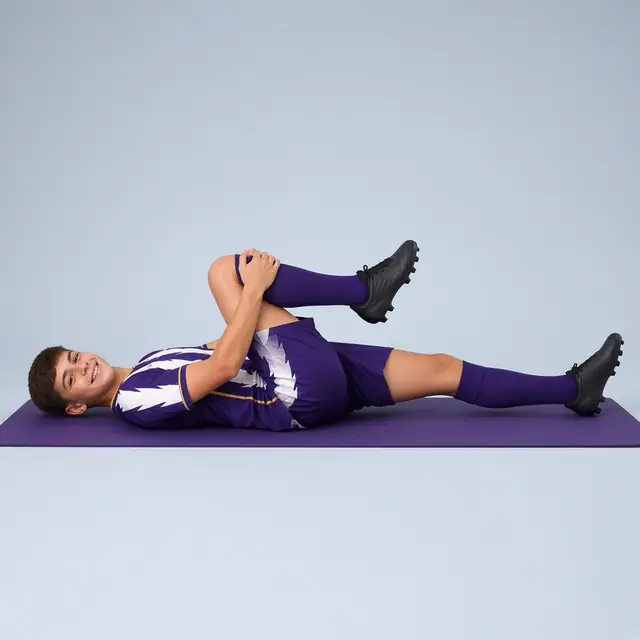
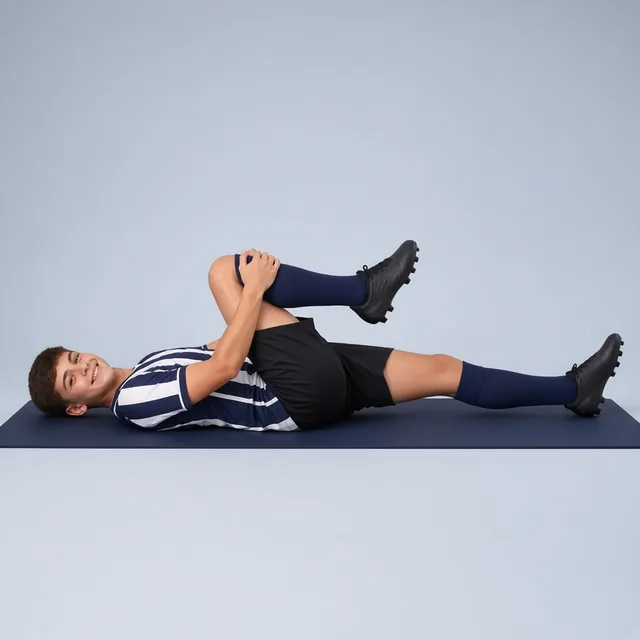
r92: stretch figures in dark blue home kit
Replace the purple-kit stretch photos with the same invented lad in
the real Wigan Junior Latics U15 Blues home kit (dark blue #021945
and white vertical stripes, black shorts). All 11 poses (full and
thumb) regenerated and cache-busted. Pre-game stretch and cool-down
links bump to 92. Nothing goes live until Tim says yes.

Changed region(s): [[0.0, 0.4062, 1.0, 0.7188], [0.0938, 0.5312, 0.1562, 0.5938], [0.3438, 0.4062, 0.375, 0.4375]]

diff --git a/family.html b/family.html
@@ -134,7 +134,7 @@ body.ps .vi,body.ps .intro,body.ps .ans,body.ps details.pl{background:#fff;color
 .tl-fit-chips,.tl-fit-tabs{flex-wrap:wrap}
 @media(min-width:720px){.tl-fitview{align-items:center}.tl-fit-sheet{border-radius:16px;max-height:86vh}}
 </style>
-<script src="cd.js?v=91"></script>
+<script src="cd.js?v=92"></script>
 </head>
 <body>
 <div id="splash"><div class="spw"><svg viewBox="0 0 240 240" id="sprays"></svg><img src="badge.png" alt=""></div><p>Welcome to <b>Wigan Junior Latics Blues U15</b> Touchline Hub</p><div class="spn"><span>Proudly sponsored by</span><img src="coach/mfs.png" alt="MFS Limited"></div></div>
@@ -499,7 +499,7 @@ function famShirtNum(){if(D&&D.role==='parent'&&CHD&&CHD.num)return String(CHD.n
 window.tlLateNum=function(){return famShirtNum();};
 window.tlLateSend=function(row){if(!row)return Promise.resolve();var act=row.op==='undo'?'f.late.undo':'f.late';return call(act,{id:row.id,num:row.num,mins:row.mins,kind:row.kind,ref:row.ref,date:row.date}).then(function(){alertMsg=row.op==='undo'?'Late notice cleared.':'Told the coaches: '+(window.TLCD?TLCD.lateLabel(row.num,row.mins):('No. '+row.num+' running late'));try{r();}catch(e){}}).catch(function(e){alertMsg=(e&&e.message)||'Saved on this phone. Will send when you are back online.';try{r();}catch(x){};});};
 window.addEventListener('online',function(){try{if(window.TLCD)TLCD.flushLate();}catch(e){}});
-function famMatchdayMaybe(){try{if(!window.TLCD||!D)return;var x=X(),td=today();var nx=(x.fixtures||[]).filter(function(m){return !m.done&&m.date===td&&!m.pp;})[0];if(!nx)return;if(D.role==='parent')loadChild();TLCD.showMatchday(nx,{role:D.role||'parent',anim:'12_352_in_transition',animHref:'coach/anim/12_352_in_transition.html?v=91',onGo:function(){try{goTab('home');}catch(e){}try{TLCD.pinToday(nx);}catch(e2){}},onCard:function(){try{goTab('home');}catch(e){}}});}catch(e){}}
+function famMatchdayMaybe(){try{if(!window.TLCD||!D)return;var x=X(),td=today();var nx=(x.fixtures||[]).filter(function(m){return !m.done&&m.date===td&&!m.pp;})[0];if(!nx)return;if(D.role==='parent')loadChild();TLCD.showMatchday(nx,{role:D.role||'parent',anim:'12_352_in_transition',animHref:'coach/anim/12_352_in_transition.html?v=92',onGo:function(){try{goTab('home');}catch(e){}try{TLCD.pinToday(nx);}catch(e2){}},onCard:function(){try{goTab('home');}catch(e){}}});}catch(e){}}
 
 function todayCard(){var x=X(),td=today();var pend=(D.posts||[]).filter(function(p){return p.date>=td&&!(D.mine||{})[p.id];}).sort(function(a,b){return a.date<b.date?-1:1;})[0];
  var nx=x.fixtures.filter(function(m){return !m.done&&m.date>=td&&!m.pp;})[0];var who=D.role==='player'?'you':esc(D.first);
@@ -625,7 +625,7 @@ function selfPrompt(){if(!D||D.role!=='player'||!SELF||SELF.done||SELF.role!=='p
 function selfLink(){if(!D||D.role!=='player'||!SELF||SELF.role!=='player')return '';var h='<div class="card"><h3>My profile</h3><p class="small muted">Nickname, foot, positions and your own scores. Only you and the coaches can see these.</p><button class="btn block" onclick="selfOpen()">'+(SELF.done?'Update my profile':'Make it yours')+'</button></div>';if(window.roleBtn)h=roleBtn({label:'My role'})+h;if(window.niggleCard)h=niggleCard()+h;return h;}
 var WK3P={0:["w1_shape_to_receive_session","plans/w1_shape_to_receive_session.pdf"]};var WK3D=[["06_shape_to_receive_first_pass_forward", "Shape to receive, first pass forward", "Watch how the players move before the ball arrives: someone shows short, others give width, and the first pass goes forward."], ["07_counter_attack_three_runners", "Counter attack: first pass forward, three runners", "Watch the moment we win the ball: the first pass goes forward through a gap, and three players sprint straight away."], ["08_five_second_counter_press", "Lose it, react: five second press", "Watch what happens the moment we lose the ball: do the closest players chase it straight away together for about five seconds?"], ["09_build_from_keeper_then_break", "Build from the keeper, then break", "Watch the keeper start the attack and the defenders spread out wide, then the ball goes forward quickly."], ["10_rotate_roles_everyone_every_job", "Everyone plays every job", "Watch your child play in different positions. That is the plan: everyone learns every job in the team."], ["11_shape_and_transition_game", "Shape and transition in the game", "Watch for the three ideas from this block: getting into shape, reacting when we lose it, and breaking fast when we win it."]];
 function tonightCard(){var n=new Date(),p=function(x){return ('0'+x).slice(-2);},td=n.getFullYear()+'-'+p(n.getMonth()+1)+'-'+p(n.getDate());if(td<'2026-11-03'||td>'2026-11-10')return '';var pl=D&&D.role==='player';return '<div class="card" id="tonight"><span class="tag" style="background:#1e3a8a">'+(td==='2026-11-04'?'Tonight':'Wed 4 Nov')+'</span><h2 style="margin-top:8px">'+(pl?'Tonight\'s session':'Tonight\'s training')+': body shape and quick play</h2><p class="small muted">60 minutes. Look, open, forward, quick.</p>'+(pl?'<p>Watch it before training. Turn the sound on. Players are shown by shirt number.</p>':'<p><b>What to look for:</b> players looking over their shoulder before the ball arrives, opening up on the half turn, and moving it on in one or two touches. When we win it, the first pass goes forward.</p>')+'<a class="btn pri block" href="coach/anim/t1104_body_shape_quick_play.html?v=86&back='+encodeURIComponent(location.pathname)+'">Watch the whole session</a><p class="small muted" style="margin:8px 0">Five parts with voice over. Tap Close or press Esc to come back here.</p><a class="btn block" href="plans/t1104_body_shape_quick_play.pdf?v=87" target="_blank" rel="noopener">Session plan (PDF)</a></div>';}
-function stretchCard(){return '<div class="card" id="stretchc"><span class="tag" style="background:#16a34a">Cool down</span><h2 style="margin-top:8px">Stretching</h2><p class="small muted">18 football stretches, about 14 minutes. Voice over tells you each one, why it helps, then counts you down. Works offline once opened.</p><a class="btn block" href="stretch/index.html?v=91&back='+encodeURIComponent(location.pathname)+'">Start stretching</a>'+(window.preStretchExtra?preStretchExtra():'<button type="button" class="btn pri block" style="margin-top:8px" onclick="openPreStretch&&openPreStretch()">Pre-game stretch</button>')+'</div>';}
+function stretchCard(){return '<div class="card" id="stretchc"><span class="tag" style="background:#16a34a">Cool down</span><h2 style="margin-top:8px">Stretching</h2><p class="small muted">18 football stretches, about 14 minutes. Voice over tells you each one, why it helps, then counts you down. Works offline once opened.</p><a class="btn block" href="stretch/index.html?v=92&back='+encodeURIComponent(location.pathname)+'">Start stretching</a>'+(window.preStretchExtra?preStretchExtra():'<button type="button" class="btn pri block" style="margin-top:8px" onclick="openPreStretch&&openPreStretch()">Pre-game stretch</button>')+'</div>';}
 function wk3dCard(){var s=new Date('2026-11-04T00:00:00'),n=Math.floor((Date.now()-s)/864e5),i=n<0?0:Math.floor(n/7);if(i>5||n<-14)return stretchCard()+(window.TLFit?TLFit.familyCard({who:D.role==='parent'?'parent':'player'}):'');var w=WK3D[i],pl=D&&D.role==='player',sp=WK3P[i],u='coach/anim/'+(sp?sp[0]:w[0])+'.html?v=86&back='+encodeURIComponent(location.pathname),dt=new Date(s.getTime()+i*7*864e5).toLocaleDateString('en-GB',{weekday:'short',day:'numeric',month:'short'});return '<div class="card" id="wk3d"><span class="tag" style="background:#1e3a8a">'+(n<0?'Coming up':'This week')+'</span><h2 style="margin-top:8px">'+(pl?'This week\'s session':'This week\'s training')+'</h2><p class="small muted">Week '+(i+1)+' of 6, '+dt+': '+w[1]+'</p>'+(pl?'<p>Watch it before training. Turn the sound on. Players are shown by shirt number.</p>':'<p><b>What to look for:</b> '+w[2]+'</p>')+'<a class="btn pri block" href="'+u+'">'+(sp?'Watch the whole session':'Watch it')+'</a>'+(sp?'<p class="small muted" style="margin:8px 0">Warm up, both practices and the game, with voice over. Tap Close or press Esc to come back here.</p><a class="btn block" href="'+sp[1]+'?v=87" target="_blank" rel="noopener">Session plan (PDF)</a>':'')+'</div>'+stretchCard()+(window.TLFit?TLFit.familyCard({who:D.role==='parent'?'parent':'player'}):'');}
 /* UK dates: shared helper. Display only; stored dates stay yyyy-mm-dd. */
 function ukD(s,o){if(!s)return '';var m=/^(\d{4})-(\d\d)-(\d\d)/.exec(String(s)),d=m?new Date(Date.UTC(+m[1],+m[2]-1,+m[3],12)):new Date(s);if(isNaN(d))return String(s);return d.toLocaleDateString('en-GB',Object.assign({timeZone:'Europe/London'},o||{day:'numeric',month:'short',year:'numeric'}));}
@@ -798,12 +798,12 @@ function feedCard(){var f=(D&&D.feed)||[];if(!f.length)return '';return '<div cl
 function out(){CODE='';D=null;s(CK,'');s('fam.cache','');r();}
 if(CODE){var cc=null;try{cc=JSON.parse(g('fam.cache')||'null');}catch(x){}if(cc&&cc.c===CODE&&cc.d){D=cc.d;r();splashDone();setTimeout(famMatchdayMaybe,500);}load();}else{r();splashDone();}
 </script>
-<script src="positions.js?v=91" defer></script>
-<script src="fitness.js?v=91" defer></script>
-<script src="prestretch.js?v=91" defer></script>
-<script src="acct.js?v=91" defer></script>
-<script src="shop.js?v=91" defer></script>
-<script src="update.js?v=91" defer></script>
-<script src="pq.js?v=91" defer></script>
+<script src="positions.js?v=92" defer></script>
+<script src="fitness.js?v=92" defer></script>
+<script src="prestretch.js?v=92" defer></script>
+<script src="acct.js?v=92" defer></script>
+<script src="shop.js?v=92" defer></script>
+<script src="update.js?v=92" defer></script>
+<script src="pq.js?v=92" defer></script>
 </body>
 </html>

diff --git a/parents.html b/parents.html
@@ -134,7 +134,7 @@ body.ps .vi,body.ps .intro,body.ps .ans,body.ps details.pl{background:#fff;color
 .tl-fit-chips,.tl-fit-tabs{flex-wrap:wrap}
 @media(min-width:720px){.tl-fitview{align-items:center}.tl-fit-sheet{border-radius:16px;max-height:86vh}}
 </style>
-<script src="cd.js?v=91"></script>
+<script src="cd.js?v=92"></script>
 </head>
 <body>
 <div id="splash"><div class="spw"><svg viewBox="0 0 240 240" id="sprays"></svg><img src="badge.png" alt=""></div><p>Welcome to <b>Wigan Junior Latics Blues U15</b> Touchline Hub</p><div class="spn"><span>Proudly sponsored by</span><img src="coach/mfs.png" alt="MFS Limited"></div></div>
@@ -463,7 +463,7 @@ function famShirtNum(){if(D&&D.role==='parent'&&CHD&&CHD.num)return String(CHD.n
 window.tlLateNum=function(){return famShirtNum();};
 window.tlLateSend=function(row){if(!row)return Promise.resolve();var act=row.op==='undo'?'f.late.undo':'f.late';return call(act,{id:row.id,num:row.num,mins:row.mins,kind:row.kind,ref:row.ref,date:row.date}).then(function(){alertMsg=row.op==='undo'?'Late notice cleared.':'Told the coaches: '+(window.TLCD?TLCD.lateLabel(row.num,row.mins):('No. '+row.num+' running late'));try{r();}catch(e){}}).catch(function(e){alertMsg=(e&&e.message)||'Saved on this phone. Will send when you are back online.';try{r();}catch(x){};});};
 window.addEventListener('online',function(){try{if(window.TLCD)TLCD.flushLate();}catch(e){}});
-function famMatchdayMaybe(){try{if(!window.TLCD||!D)return;var x=X(),td=today();var nx=(x.fixtures||[]).filter(function(m){return !m.done&&m.date===td&&!m.pp;})[0];if(!nx)return;if(D.role==='parent')loadChild();TLCD.showMatchday(nx,{role:D.role||'parent',anim:'12_352_in_transition',animHref:'coach/anim/12_352_in_transition.html?v=91',onGo:function(){try{goTab('home');}catch(e){}try{TLCD.pinToday(nx);}catch(e2){}},onCard:function(){try{goTab('home');}catch(e){}}});}catch(e){}}
+function famMatchdayMaybe(){try{if(!window.TLCD||!D)return;var x=X(),td=today();var nx=(x.fixtures||[]).filter(function(m){return !m.done&&m.date===td&&!m.pp;})[0];if(!nx)return;if(D.role==='parent')loadChild();TLCD.showMatchday(nx,{role:D.role||'parent',anim:'12_352_in_transition',animHref:'coach/anim/12_352_in_transition.html?v=92',onGo:function(){try{goTab('home');}catch(e){}try{TLCD.pinToday(nx);}catch(e2){}},onCard:function(){try{goTab('home');}catch(e){}}});}catch(e){}}
 
 function todayCard(){var x=X(),td=today();var pend=(D.posts||[]).filter(function(p){return p.date>=td&&!(D.mine||{})[p.id];}).sort(function(a,b){return a.date<b.date?-1:1;})[0];
  var nx=x.fixtures.filter(function(m){return !m.done&&m.date>=td&&!m.pp;})[0];var who=D.role==='player'?'you':esc(D.first);
@@ -589,7 +589,7 @@ function selfPrompt(){if(!D||D.role!=='player'||!SELF||SELF.done||SELF.role!=='p
 function selfLink(){if(!D||D.role!=='player'||!SELF||SELF.role!=='player')return '';var h='<div class="card"><h3>My profile</h3><p class="small muted">Nickname, foot, positions and your own scores. Only you and the coaches can see these.</p><button class="btn block" onclick="selfOpen()">'+(SELF.done?'Update my profile':'Make it yours')+'</button></div>';if(window.roleBtn)h=roleBtn({label:'My role'})+h;if(window.niggleCard)h=niggleCard()+h;return h;}
 var WK3P={0:["w1_shape_to_receive_session","plans/w1_shape_to_receive_session.pdf"]};var WK3D=[["06_shape_to_receive_first_pass_forward", "Shape to receive, first pass forward", "Watch how the players move before the ball arrives: someone shows short, others give width, and the first pass goes forward."], ["07_counter_attack_three_runners", "Counter attack: first pass forward, three runners", "Watch the moment we win the ball: the first pass goes forward through a gap, and three players sprint straight away."], ["08_five_second_counter_press", "Lose it, react: five second press", "Watch what happens the moment we lose the ball: do the closest players chase it straight away together for about five seconds?"], ["09_build_from_keeper_then_break", "Build from the keeper, then break", "Watch the keeper start the attack and the defenders spread out wide, then the ball goes forward quickly."], ["10_rotate_roles_everyone_every_job", "Everyone plays every job", "Watch your child play in different positions. That is the plan: everyone learns every job in the team."], ["11_shape_and_transition_game", "Shape and transition in the game", "Watch for the three ideas from this block: getting into shape, reacting when we lose it, and breaking fast when we win it."]];
 function tonightCard(){var n=new Date(),p=function(x){return ('0'+x).slice(-2);},td=n.getFullYear()+'-'+p(n.getMonth()+1)+'-'+p(n.getDate());if(td<'2026-11-03'||td>'2026-11-10')return '';var pl=D&&D.role==='player';return '<div class="card" id="tonight"><span class="tag" style="background:#1e3a8a">'+(td==='2026-11-04'?'Tonight':'Wed 4 Nov')+'</span><h2 style="margin-top:8px">'+(pl?'Tonight\'s session':'Tonight\'s training')+': body shape and quick play</h2><p class="small muted">60 minutes. Look, open, forward, quick.</p>'+(pl?'<p>Watch it before training. Turn the sound on. Players are shown by shirt number.</p>':'<p><b>What to look for:</b> players looking over their shoulder before the ball arrives, opening up on the half turn, and moving it on in one or two touches. When we win it, the first pass goes forward.</p>')+'<a class="btn pri block" href="coach/anim/t1104_body_shape_quick_play.html?v=86&back='+encodeURIComponent(location.pathname)+'">Watch the whole session</a><p class="small muted" style="margin:8px 0">Five parts with voice over. Tap Close or press Esc to come back here.</p><a class="btn block" href="plans/t1104_body_shape_quick_play.pdf?v=87" target="_blank" rel="noopener">Session plan (PDF)</a></div>';}
-function stretchCard(){return '<div class="card" id="stretchc"><span class="tag" style="background:#16a34a">Cool down</span><h2 style="margin-top:8px">Stretching</h2><p class="small muted">18 football stretches, about 14 minutes. Voice over tells you each one, why it helps, then counts you down. Works offline once opened.</p><a class="btn block" href="stretch/index.html?v=91&back='+encodeURIComponent(location.pathname)+'">Start stretching</a>'+(window.preStretchExtra?preStretchExtra():'<button type="button" class="btn pri block" style="margin-top:8px" onclick="openPreStretch&&openPreStretch()">Pre-game stretch</button>')+'</div>';}
+function stretchCard(){return '<div class="card" id="stretchc"><span class="tag" style="background:#16a34a">Cool down</span><h2 style="margin-top:8px">Stretching</h2><p class="small muted">18 football stretches, about 14 minutes. Voice over tells you each one, why it helps, then counts you down. Works offline once opened.</p><a class="btn block" href="stretch/index.html?v=92&back='+encodeURIComponent(location.pathname)+'">Start stretching</a>'+(window.preStretchExtra?preStretchExtra():'<button type="button" class="btn pri block" style="margin-top:8px" onclick="openPreStretch&&openPreStretch()">Pre-game stretch</button>')+'</div>';}
 function wk3dCard(){var s=new Date('2026-11-04T00:00:00'),n=Math.floor((Date.now()-s)/864e5),i=n<0?0:Math.floor(n/7);if(i>5||n<-14)return stretchCard()+(window.TLFit?TLFit.familyCard({who:D.role==='parent'?'parent':'player'}):'');var w=WK3D[i],pl=D&&D.role==='player',sp=WK3P[i],u='coach/anim/'+(sp?sp[0]:w[0])+'.html?v=86&back='+encodeURIComponent(location.pathname),dt=new Date(s.getTime()+i*7*864e5).toLocaleDateString('en-GB',{weekday:'short',day:'numeric',month:'short'});return '<div class="card" id="wk3d"><span class="tag" style="background:#1e3a8a">'+(n<0?'Coming up':'This week')+'</span><h2 style="margin-top:8px">'+(pl?'This week\'s session':'This week\'s training')+'</h2><p class="small muted">Week '+(i+1)+' of 6, '+dt+': '+w[1]+'</p>'+(pl?'<p>Watch it before training. Turn the sound on. Players are shown by shirt number.</p>':'<p><b>What to look for:</b> '+w[2]+'</p>')+'<a class="btn pri block" href="'+u+'">'+(sp?'Watch the whole session':'Watch it')+'</a>'+(sp?'<p class="small muted" style="margin:8px 0">Warm up, both practices and the game, with voice over. Tap Close or press Esc to come back here.</p><a class="btn block" href="'+sp[1]+'?v=87" target="_blank" rel="noopener">Session plan (PDF)</a>':'')+'</div>'+stretchCard()+(window.TLFit?TLFit.familyCard({who:D.role==='parent'?'parent':'player'}):'');}
 /* UK dates: shared helper. Display only; stored dates stay yyyy-mm-dd. */
 function ukD(s,o){if(!s)return '';var m=/^(\d{4})-(\d\d)-(\d\d)/.exec(String(s)),d=m?new Date(Date.UTC(+m[1],+m[2]-1,+m[3],12)):new Date(s);if(isNaN(d))return String(s);return d.toLocaleDateString('en-GB',Object.assign({timeZone:'Europe/London'},o||{day:'numeric',month:'short',year:'numeric'}));}
@@ -761,12 +761,12 @@ function feedCard(){var f=(D&&D.feed)||[];if(!f.length)return '';return '<div cl
 function out(){CODE='';D=null;s(CK,'');s('fam.cache','');r();}
 if(CODE){var cc=null;try{cc=JSON.parse(g('fam.cache')||'null');}catch(x){}if(cc&&cc.c===CODE&&cc.d){D=cc.d;r();splashDone();setTimeout(famMatchdayMaybe,500);}load();}else{r();splashDone();}
 </script>
-<script src="positions.js?v=91" defer></script>
-<script src="fitness.js?v=91" defer></script>
-<script src="prestretch.js?v=91" defer></script>
-<script src="acct.js?v=91" defer></script>
-<script src="shop.js?v=91" defer></script>
-<script src="update.js?v=91" defer></script>
-<script src="pq.js?v=91" defer></script>
+<script src="positions.js?v=92" defer></script>
+<script src="fitness.js?v=92" defer></script>
+<script src="prestretch.js?v=92" defer></script>
+<script src="acct.js?v=92" defer></script>
+<script src="shop.js?v=92" defer></script>
+<script src="update.js?v=92" defer></script>
+<script src="pq.js?v=92" defer></script>
 </body>
 </html>

diff --git a/stretch/ssw.js b/stretch/ssw.js
@@ -1,5 +1,5 @@
 /* stretching offline cache, release 84 */
-var V='touchline-stretch-v85',F=["./", "index.html", "app.js?v=85", "data.js?v=85", "../badge.png", "../icon-192.png", "img/quad.webp?v=85", "img/quad_t.webp?v=85", "img/calf.webp?v=85", "img/calf_t.webp?v=85", "img/flexor.webp?v=85", "img/flexor_t.webp?v=85", "img/ham.webp?v=85", "img/ham_t.webp?v=85", "img/adductor.webp?v=85", "img/adductor_t.webp?v=85", "img/butterfly.webp?v=85", "img/butterfly_t.webp?v=85", "img/glute.webp?v=85", "img/glute_t.webp?v=85", "img/knee.webp?v=85", "img/knee_t.webp?v=85", "img/twist.webp?v=85", "img/twist_t.webp?v=85", "img/dog.webp?v=85", "img/dog_t.webp?v=85", "img/wall.webp?v=85", "img/wall_t.webp?v=85", "audio/welcome.mp3?v=85", "audio/finish.mp3?v=85", "audio/count.mp3?v=85", "audio/switch.mp3?v=85", "audio/s00.mp3?v=85", "audio/s01.mp3?v=85", "audio/s02.mp3?v=85", "audio/s03.mp3?v=85", "audio/s04.mp3?v=85", "audio/s05.mp3?v=85", "audio/s06.mp3?v=85", "audio/s07.mp3?v=85", "audio/s08.mp3?v=85", "audio/s09.mp3?v=85", "audio/s10.mp3?v=85", "audio/s11.mp3?v=85", "audio/s12.mp3?v=85", "audio/s13.mp3?v=85", "audio/s14.mp3?v=85", "audio/s15.mp3?v=85", "audio/s16.mp3?v=85", "audio/s17.mp3?v=85"];
+var V='touchline-stretch-v92',F=["./", "index.html", "app.js?v=92", "data.js?v=92", "../badge.png", "../icon-192.png", "img/quad.webp?v=92", "img/quad_t.webp?v=92", "img/calf.webp?v=92", "img/calf_t.webp?v=92", "img/flexor.webp?v=92", "img/flexor_t.webp?v=92", "img/ham.webp?v=92", "img/ham_t.webp?v=92", "img/adductor.webp?v=92", "img/adductor_t.webp?v=92", "img/butterfly.webp?v=92", "img/butterfly_t.webp?v=92", "img/glute.webp?v=92", "img/glute_t.webp?v=92", "img/knee.webp?v=92", "img/knee_t.webp?v=92", "img/twist.webp?v=92", "img/twist_t.webp?v=92", "img/dog.webp?v=92", "img/dog_t.webp?v=92", "img/wall.webp?v=92", "img/wall_t.webp?v=92", "audio/welcome.mp3?v=92", "audio/finish.mp3?v=92", "audio/count.mp3?v=92", "audio/switch.mp3?v=92", "audio/s00.mp3?v=92", "audio/s01.mp3?v=92", "audio/s02.mp3?v=92", "audio/s03.mp3?v=92", "audio/s04.mp3?v=92", "audio/s05.mp3?v=92", "audio/s06.mp3?v=92", "audio/s07.mp3?v=92", "audio/s08.mp3?v=92", "audio/s09.mp3?v=92", "audio/s10.mp3?v=92", "audio/s11.mp3?v=92", "audio/s12.mp3?v=92", "audio/s13.mp3?v=92", "audio/s14.mp3?v=92", "audio/s15.mp3?v=92", "audio/s16.mp3?v=92", "audio/s17.mp3?v=92"];
 self.addEventListener('install',function(e){self.skipWaiting();e.waitUntil(caches.open(V).then(function(c){return c.addAll(F);}));});
 self.addEventListener('activate',function(e){e.waitUntil(caches.keys().then(function(k){return Promise.all(k.filter(function(n){return n.indexOf('touchline-stretch-')===0&&n!==V;}).map(function(n){return caches.delete(n);}));}).then(function(){return self.clients.claim();}));});
 self.addEventListener('fetch',function(e){if(e.request.method!=='GET')return;e.respondWith(caches.match(e.request,{ignoreSearch:false}).then(function(r){return r||fetch(e.request).then(function(n){if(n.ok&&new URL(e.request.url).origin===location.origin){var c=n.clone();caches.open(V).then(function(x){x.put(e.request,c);});}return n;}).catch(function(){return caches.match(e.request,{ignoreSearch:true});});}));});

diff --git a/stretch/app.js b/stretch/app.js
@@ -46,12 +46,12 @@ function sideTxt(x){return x.side==='L'?'Left':x.side==='R'?'Right':'';}
 function esc(s){return String(s).replace(/[&<>"]/g,function(c){return {'&':'&amp;','<':'&lt;','>':'&gt;','"':'&quot;'}[c];});}
 /* list */
 $('cnt').textContent=IT.length;$('total').textContent=mmss(TOTAL)+' total';
-$('items').innerHTML=IT.map(function(x,i){return '<li data-i="'+i+'"><div class="th"><img src="img/'+x.pose+'_t.webp?v=85" alt=""'+(x.side==='R'?' class="mr"':'')+'></div><div class="nm">'+esc(x.name)+(x.side?' <span class="sd">'+sideTxt(x)+'</span>':'')+'</div><div class="tm">'+mmss(x.secs)+'</div></li>';}).join('');
+$('items').innerHTML=IT.map(function(x,i){return '<li data-i="'+i+'"><div class="th"><img src="img/'+x.pose+'_t.webp?v=92" alt=""'+(x.side==='R'?' class="mr"':'')+'></div><div class="nm">'+esc(x.name)+(x.side?' <span class="sd">'+sideTxt(x)+'</span>':'')+'</div><div class="tm">'+mmss(x.secs)+'</div></li>';}).join('');
 /* state */
 var t=0,playing=false,last=0,how=false,fired={},ac=null,cur=-1;
 function segAt(tt){for(var i=SEG.length-1;i>=0;i--)if(tt>=SEG[i].t0)return i;return 0;}
 function beep(){try{if(!ac)return;var o=ac.createOscillator(),g=ac.createGain();o.frequency.value=880;g.gain.setValueAtTime(.18,ac.currentTime);g.gain.exponentialRampToValueAtTime(.001,ac.currentTime+.35);o.connect(g);g.connect(ac.destination);o.start();o.stop(ac.currentTime+.36);}catch(e){}}
-function say(a,off){if(window.__silent)return;vo.src='audio/'+a+'.mp3?v=85';try{vo.currentTime=off||0;}catch(e){}var p=vo.play();if(p&&p.catch)p.catch(function(){});}
+function say(a,off){if(window.__silent)return;vo.src='audio/'+a+'.mp3?v=92';try{vo.currentTime=off||0;}catch(e){}var p=vo.play();if(p&&p.catch)p.catch(function(){});}
 function cues(si,local){var s=SEG[si],key;
  function once(k,f){key=si+':'+k;if(!fired[key]){fired[key]=1;f();}}
  if(s.k==='welcome')once('w',function(){say('welcome');});
@@ -64,7 +64,7 @@ function render(){
  var si=segAt(t),s=SEG[si],local=t-s.t0,rem=s.d-local,ix=s.i!=null?s.i:(s.k==='welcome'?0:IT.length-1),x=IT[ix];
  var pl=playing||window.__rec,mode=(s.k==='hold'&&!how&&pl)?'hold':'demo';
  var fk=s.k==='done'?'done':x.pose+x.side,fg=$('fig');
- if(fg.dataset.k!==fk){fg.dataset.k=fk;fg.innerHTML=s.k==='done'?'<div class="wd">Well done!</div>':'<img id="pimg" src="img/'+x.pose+'.webp?v=85" alt="'+esc(x.name)+' demo">';}
+ if(fg.dataset.k!==fk){fg.dataset.k=fk;fg.innerHTML=s.k==='done'?'<div class="wd">Well done!</div>':'<img id="pimg" src="img/'+x.pose+'.webp?v=92" alt="'+esc(x.name)+' demo">';}
  var pi=$('pimg');if(pi&&s.k!=='done'){var z=mode==='hold'?1.03+.05*Math.min(1,local/s.d):1.03+.03*Math.sin(t*.9);pi.style.transform='scale('+(x.side==='R'?-z:z)+','+z+')';}
  var ph=$('phase');ph.className='phase'+(s.k==='hold'?' hold':'');ph.textContent=s.k==='welcome'?'Get ready':s.k==='intro'?(ix&&IT[ix-1].id===x.id?'Switch':'Next up'):s.k==='hold'?'Hold':'Finished';
  $('pname').textContent=s.k==='done'?'All done':x.name;$('pside').textContent=s.k==='done'?'':sideTxt(x)+(x.side?' side':'');

diff --git a/prestretch.js b/prestretch.js
@@ -105,10 +105,10 @@ function openSheet(){
    enqueue('f.prestretch.set',prog);
    if(areas.indexOf('none')<0)enqueue('f.niggle',prog);
    close();
-   location.href='stretch/index.html?mode=pregame&v=90&back='+encodeURIComponent(location.pathname+(location.search||''));
+   location.href='stretch/index.html?mode=pregame&v=92&back='+encodeURIComponent(location.pathname+(location.search||''));
   };
   var rp=ov.querySelector('#tl-pre-replay');
-  if(rp)rp.onclick=function(){close();location.href='stretch/index.html?mode=pregame&v=90&back='+encodeURIComponent(location.pathname+(location.search||''));};
+  if(rp)rp.onclick=function(){close();location.href='stretch/index.html?mode=pregame&v=92&back='+encodeURIComponent(location.pathname+(location.search||''));};
  }
  function close(){if(ov&&ov.parentNode)ov.parentNode.removeChild(ov);}
  document.body.appendChild(ov);paint();
@@ -119,7 +119,7 @@ function cardExtra(){
  h+='<p class="small muted" style="margin-top:6px">2-minute dynamic warm-up. Tell us any niggles (chips only), we weight the sequence, and save it on your profile to replay.</p>';
  if(prog&&prog.ids&&prog.ids.length){
   var labs=(prog.areas||[]).map(function(k){for(var i=0;i<AREAS.length;i++)if(AREAS[i].k===k)return AREAS[i].lab;return k;}).join(', ');
-  h+='<p class="small" style="margin-top:6px">Saved programme'+(labs?' · '+E(labs):'')+'. <a href="stretch/index.html?mode=pregame&v=90&back='+encodeURIComponent(location.pathname)+'">Replay</a></p>';
+  h+='<p class="small" style="margin-top:6px">Saved programme'+(labs?' · '+E(labs):'')+'. <a href="stretch/index.html?mode=pregame&v=92&back='+encodeURIComponent(location.pathname)+'">Replay</a></p>';
  }
  return h;
 }
@@ -133,7 +133,7 @@ function profileNiggleCard(forChild){
   '<p class="small muted">Private. Only you, your family and the coaches. Not shown to other families.</p>'+
   '<p><b>'+E(shirt)+E(labs.join(', '))+'</b></p>'+
   '<p class="small" style="margin:8px 0;padding:8px 10px;border-radius:10px;background:rgba(248,113,113,.12)"><b>If it hurts, stop and tell a coach.</b></p>'+
-  '<a class="btn block" href="stretch/index.html?mode=pregame&v=90&back='+encodeURIComponent(location.pathname)+'">Open pre-game stretch</a></div>';
+  '<a class="btn block" href="stretch/index.html?mode=pregame&v=92&back='+encodeURIComponent(location.pathname)+'">Open pre-game stretch</a></div>';
 }
 if(!document.getElementById('tl-pre-css')){
  var st=document.createElement('style');st.id='tl-pre-css';

diff --git a/coach/sw.js b/coach/sw.js
@@ -1,8 +1,8 @@
 /* Touchline coach app shell service worker (P0).
    Precache: shell only. Runtime: cache first for versioned static, network first for pages,
    Apps Script and other origins are never touched. No PDFs, video or audio are cached here. */
-var V='touchline-shell-v91',RT='touchline-run-v91';
-var SHELL=['./','index.html','app.css?v=91','topics.js?v=91','topic-bank.js?v=91','guide.js?v=91','app.js?v=91','gui.js?v=91','positions.js?v=91','positions.json','cdev.js?v=91','../pod.js','../acct.js?v=91','../update.js?v=91','../shop.css?v=91','../shop.js?v=91','../fitness.js?v=91','../fitness.css?v=91','../cd.js?v=91','../shop/img/ss-core-supporters-coat-navy.webp?v=91','../shop/img/ss-core-thermal-jacket-navy.webp?v=91','../shop/img/end-of-line-ss-bench-coat-navy.webp?v=91','../shop/img/ss-core-softshell-jacket-navy.webp?v=91','../shop/img/ss-core-padded-gilet-navy.webp?v=91','../shop/img/new-ss-core-rain-jacket-navy.webp?v=91','../shop/img/ss-core-softshell-gilet-navy.webp?v=91','manifest.webmanifest','../badge.png','../icon-192.png','../icon-512.png'];
+var V='touchline-shell-v92',RT='touchline-run-v92';
+var SHELL=['./','index.html','app.css?v=92','topics.js?v=92','topic-bank.js?v=92','guide.js?v=92','app.js?v=92','gui.js?v=92','positions.js?v=92','positions.json','cdev.js?v=92','../pod.js','../acct.js?v=92','../update.js?v=92','../shop.css?v=92','../shop.js?v=92','../fitness.js?v=92','../fitness.css?v=92','../cd.js?v=92','../shop/img/ss-core-supporters-coat-navy.webp?v=92','../shop/img/ss-core-thermal-jacket-navy.webp?v=92','../shop/img/end-of-line-ss-bench-coat-navy.webp?v=92','../shop/img/ss-core-softshell-jacket-navy.webp?v=92','../shop/img/ss-core-padded-gilet-navy.webp?v=92','../shop/img/new-ss-core-rain-jacket-navy.webp?v=92','../shop/img/ss-core-softshell-gilet-navy.webp?v=92','manifest.webmanifest','../badge.png','../icon-192.png','../icon-512.png'];
 var SKIP=/\.(pdf|mp4|mp3|m4a|webm|mov)$|version\.json$/i;
 self.addEventListener('install',function(e){e.waitUntil(caches.open(V).then(function(c){return c.addAll(SHELL);}).then(function(){return self.skipWaiting();}));});
 self.addEventListener('activate',function(e){e.waitUntil(caches.keys().then(function(ks){return Promise.all(ks.filter(function(k){return k!==V&&k!==RT;}).map(function(k){return caches.delete(k);}));}).then(function(){return self.clients.claim();}));});

diff --git a/tests/welfare/shell-browser.js b/tests/welfare/shell-browser.js
@@ -1,7 +1,7 @@
 /* r90 app shell (countdown + matchday) on the r87 Base44 shell: five tabs, More in the top bar, page addresses, scroll memory, attendance ticks,
    guides on tap, roles grid, Update ready during a match, and the error card. Fake data only. */
 const {chromium}=require('playwright');const http=require('http'),fs=require('fs'),path=require('path');
-const root=path.resolve(__dirname,'../..');const PORT=+process.env.PORT||8797;let VER='91';
+const root=path.resolve(__dirname,'../..');const PORT=+process.env.PORT||8797;let VER='92';
 const SHOTS=process.env.SHOTS||'';
 const MT={'.js':'text/javascript','.html':'text/html','.json':'application/json','.css':'text/css','.png':'image/png','.jpg':'image/jpeg','.vtt':'text/vtt','.mp4':'video/mp4','.webmanifest':'application/json'};
 const srv=http.createServer((q,r)=>{const u=q.url.split('?')[0];if(u==='/version.json'){r.writeHead(200,{'content-type':'application/json'});r.end(JSON.stringify({v:VER}));return;}let f=path.join(root,decodeURIComponent(u));if(f.endsWith('/'))f+='index.html';fs.readFile(f,(e,d)=>{if(e){r.writeHead(404);r.end();return;}r.writeHead(200,{'content-type':MT[path.extname(f)]||'application/octet-stream'});r.end(d);});}).listen(PORT);
@@ -166,7 +166,7 @@ const w=ms=>new Promise(r=>setTimeout(r,ms));const H=c=>c.evaluate(()=>location.
  await cc.close();
  // live match: no reload, Update ready button instead
  const live=JSON.parse(JSON.stringify(state));live.matches.m1={id:'m1',opp:'Test FC',date:'2026-11-07',ko:'10:30',ha:'H',formation:'352',half:35,avail:{},lineup:{},status:'live',period:1,clock:{acc:0,running:false,t0:0},stints:{},events:[],ratings:{},updatedAt:1};
- const L=await open(b,ph,live);let loads=0;L.c.on('load',()=>loads++);VER='91';
+ const L=await open(b,ph,live);let loads=0;L.c.on('load',()=>loads++);VER='92';
  await L.c.evaluate(()=>window.tlCheckUpdate());await w(1500);
  T('during a live match an update shows Update ready and does not reload',loads===0&&!!(await L.c.$('#tl-upd')));await shot(L.c,'phone_update_ready');
  await L.cc.close();VER='90';

diff --git a/coach/index.html b/coach/index.html
@@ -10,9 +10,9 @@
 <title>Touchline</title>
 <link rel="manifest" href="manifest.webmanifest">
 <link rel="apple-touch-icon" href="../icon-192.png">
-<link rel="stylesheet" href="app.css?v=91">
-<link rel="stylesheet" href="../shop.css?v=91">
-<link rel="stylesheet" href="../fitness.css?v=91">
+<link rel="stylesheet" href="app.css?v=92">
+<link rel="stylesheet" href="../shop.css?v=92">
+<link rel="stylesheet" href="../fitness.css?v=92">
 </head>
 <body>
 <div id="splash"><div class="spw"><svg viewBox="0 0 240 240" id="sprays"></svg><img src="../badge.png" alt=""></div><p>Welcome to <b>Wigan Junior Latics Blues U15</b> Touchline Hub</p><div class="spn"><span>Proudly sponsored by</span><img src="mfs.png" alt="MFS Limited"></div></div>
@@ -22,17 +22,17 @@
 <div class="sheet" id="sheet"><div class="sheetin" id="sheetin"></div></div>
 <div id="pr"></div><div class="toast" id="toast"></div>
 <script src="../pod.js" defer></script>
-<script src="topics.js?v=91"></script>
-<script src="topic-bank.js?v=91" defer></script>
-<script src="guide.js?v=91" defer></script>
-<script src="cdev.js?v=91" defer></script>
-<script src="../shop.js?v=91" defer></script>
-<script src="../fitness.js?v=91" defer></script>
-<script src="../cd.js?v=91"></script>
-<script src="app.js?v=91" defer></script>
-<script src="positions.js?v=91" defer></script>
-<script src="gui.js?v=91" defer></script>
-<script src="../acct.js?v=91" defer></script>
-<script src="../update.js?v=91" defer></script>
+<script src="topics.js?v=92"></script>
+<script src="topic-bank.js?v=92" defer></script>
+<script src="guide.js?v=92" defer></script>
+<script src="cdev.js?v=92" defer></script>
+<script src="../shop.js?v=92" defer></script>
+<script src="../fitness.js?v=92" defer></script>
+<script src="../cd.js?v=92"></script>
+<script src="app.js?v=92" defer></script>
+<script src="positions.js?v=92" defer></script>
+<script src="gui.js?v=92" defer></script>
+<script src="../acct.js?v=92" defer></script>
+<script src="../update.js?v=92" defer></script>
 </body>
 </html>

diff --git a/tests/welfare/auto-update-browser.js b/tests/welfare/auto-update-browser.js
@@ -1,5 +1,5 @@
 const {chromium}=require('playwright');const http=require('http'),fs=require('fs'),path=require('path');
-const root=path.resolve(__dirname,'../..');let VER='91';const PORT=+process.env.PORT||8773;
+const root=path.resolve(__dirname,'../..');let VER='92';const PORT=+process.env.PORT||8773;
 const srv=http.createServer((q,r)=>{const u=q.url.split('?')[0];if(u==='/version.json'){r.writeHead(200,{'content-type':'application/json'});r.end(JSON.stringify({v:VER}));return;}let f=path.join(root,decodeURIComponent(u));if(f.endsWith('/'))f+='index.html';fs.readFile(f,(e,d)=>{if(e){r.writeHead(404);r.end();return;}r.writeHead(200,{'content-type':f.endsWith('.js')?'text/javascript':f.endsWith('.css')?'text/css':f.endsWith('.json')?'application/json':'text/html'});r.end(d);});}).listen(PORT);
 let ok=0,bad=0;const T=(n,c)=>{console.log((c?'PASS ':'FAIL ')+n);c?ok++:bad++;};
 (async()=>{const b=await chromium.launch();
@@ -11,8 +11,8 @@ async function run(name,setup,expectReload){
  if(/typing/.test(name))await q.evaluate(()=>{var i=document.createElement('input');i.id='tt';document.body.appendChild(i);i.focus();});
  await q.waitForTimeout(4500);T(name,expectReload?loads>=2:loads===1);await ctx.close();}
 VER='92';await run('newer version on the server refreshes the app',()=>{},true);
-VER='91';await run('same version does not refresh',()=>{},false);
+VER='92';await run('same version does not refresh',()=>{},false);
 VER='92';await run('newer version waits while typing in a box',()=>{},false);
 VER='92';await run('newer version waits while a box has unsaved text',()=>{},false);
-VER='91';await run('does not refresh with unsynced coach changes',()=>{localStorage.setItem('tl.state.v1',JSON.stringify({players:{},dirty:{a:1}}));},false);
+VER='92';await run('does not refresh with unsynced coach changes',()=>{localStorage.setItem('tl.state.v1',JSON.stringify({players:{},dirty:{a:1}}));},false);
 console.log(ok+' passed, '+bad+' failed');await b.close();srv.close();process.exit(bad?1:0);})();

diff --git a/coach/app.js b/coach/app.js
@@ -1221,7 +1221,7 @@ function runSess(){var td=isoToday(),e=addDays(td,6),A=sessAll();if(view.rid){va
 function wcPost(s){var o=null;(S.settings.posts||[]).forEach(function(x){if(x.type==='training'&&x.date===s.date&&x.wc&&x.status==='published')o=x;});return o;}
 function runPracs(rc){var by={};(rc.prac||[]).forEach(function(p){(by[p.lead]=by[p.lead]||[]).push(p.slot.replace(/^Session (one|two): /,''));});return by;}
 function vRun(){
- var s=runSess(),td=isoToday(),h=intro('Tonight on the pitch. Big type, the plan in order, one tap to the animation. No Drive needed.')+ccBtn()+'<a class="btn block" style="margin:0 0 10px" href="../stretch/index.html?v=90&back=%2Fcoach%2F">🧘 Cool down stretching (14 min, voice over)</a>'+tonightCard();
+ var s=runSess(),td=isoToday(),h=intro('Tonight on the pitch. Big type, the plan in order, one tap to the animation. No Drive needed.')+ccBtn()+'<a class="btn block" style="margin:0 0 10px" href="../stretch/index.html?v=92&back=%2Fcoach%2F">🧘 Cool down stretching (14 min, voice over)</a>'+tonightCard();
  if(!s)return h+'<div class="card"><h3 style="margin-top:0">No session this week</h3><p class="muted">Build one in Plan, then tap Make touchline run card on the last step.</p><button class="btn pri block" data-act="tmode" data-v="plan">Go to Plan</button><button class="btn block" style="margin-top:8px" data-act="tmode" data-v="lib">Older sessions</button></div>';
  var rc=s.rc;
  var oc=sessAll().filter(function(x){return x.rc&&x.date>=addDays(td,-7);}).sort(function(a,b){return a.date<b.date?-1:1;}).slice(0,6);if(oc.length>1||(oc.length===1&&oc[0].id!==s.id)||view.rid)h+='<div class="chips" style="margin:0 0 8px"><button class="chip'+(!view.rid?' on':'')+'" data-act="runPick" data-id="">Tonight</button>'+oc.map(function(x){return '<button class="chip'+(view.rid===x.id?' on':'')+'" data-act="runPick" data-id="'+esc(x.id)+'">'+esc(niceDate(x.date))+'</button>';}).join('')+'</div>';

diff --git a/tests/welfare/typing-render-browser.js b/tests/welfare/typing-render-browser.js
@@ -1,7 +1,7 @@
 /* r83: typing in a coach box must survive background syncs and re-renders (no wipe, no jump, focus kept). PORT env, default 8794. */
 const {chromium}=require('playwright');const http=require('http'),fs=require('fs'),path=require('path');
 const root=path.resolve(__dirname,'../..');const PORT=+process.env.PORT||8794;
-const srv=http.createServer((q,r)=>{const u=q.url.split('?')[0];if(u==='/version.json'){r.writeHead(200,{'content-type':'application/json'});r.end('{"v":"91"}');return;}let f=path.join(root,decodeURIComponent(u));if(f.endsWith('/'))f+='index.html';fs.readFile(f,(e,d)=>{if(e){r.writeHead(404);r.end();return;}r.writeHead(200,{'content-type':f.endsWith('.js')?'text/javascript':f.endsWith('.css')?'text/css':f.endsWith('.json')?'application/json':'text/html'});r.end(d);});}).listen(PORT);
+const srv=http.createServer((q,r)=>{const u=q.url.split('?')[0];if(u==='/version.json'){r.writeHead(200,{'content-type':'application/json'});r.end('{"v":"92"}');return;}let f=path.join(root,decodeURIComponent(u));if(f.endsWith('/'))f+='index.html';fs.readFile(f,(e,d)=>{if(e){r.writeHead(404);r.end();return;}r.writeHead(200,{'content-type':f.endsWith('.js')?'text/javascript':f.endsWith('.css')?'text/css':f.endsWith('.json')?'application/json':'text/html'});r.end(d);});}).listen(PORT);
 let ok=0,bad=0;const T=(n,c)=>{console.log((c?'PASS ':'FAIL ')+n);c?ok++:bad++;};
 (async()=>{const b=await chromium.launch();
 for(const vp of [{width:1366,height:800},{width:390,height:844}]){

diff --git a/fsw.js b/fsw.js
@@ -1,6 +1,6 @@
 /* family service worker, r88: push alerts + offline shop images */
-var FV='tl-fam-v91';
-var FSHELL=['shop.js?v=91','fitness.js?v=91','fitness.css?v=91','prestretch.js?v=91','cd.js?v=91','shop.css?v=91'].concat(['ss-core-supporters-coat-navy','ss-core-thermal-jacket-navy','end-of-line-ss-bench-coat-navy','ss-core-softshell-jacket-navy','ss-core-padded-gilet-navy','new-ss-core-rain-jacket-navy','ss-core-softshell-gilet-navy'].map(function(s){return 'shop/img/'+s+'.webp?v=91';}));
+var FV='tl-fam-v92';
+var FSHELL=['shop.js?v=92','fitness.js?v=92','fitness.css?v=92','prestretch.js?v=92','cd.js?v=92','shop.css?v=92'].concat(['ss-core-supporters-coat-navy','ss-core-thermal-jacket-navy','end-of-line-ss-bench-coat-navy','ss-core-softshell-jacket-navy','ss-core-padded-gilet-navy','new-ss-core-rain-jacket-navy','ss-core-softshell-gilet-navy'].map(function(s){return 'shop/img/'+s+'.webp?v=92';}));
 self.addEventListener('install',function(e){e.waitUntil(caches.open(FV).then(function(c){return c.addAll(FSHELL);}).then(function(){return self.skipWaiting();}).catch(function(){return self.skipWaiting();}));});
 self.addEventListener('activate',function(e){e.waitUntil(caches.keys().then(function(ks){return Promise.all(ks.filter(function(k){return k.indexOf('tl-fam-')===0&&k!==FV;}).map(function(k){return caches.delete(k);}));}).then(function(){return self.clients.claim();}));});
 self.addEventListener('fetch',function(e){
